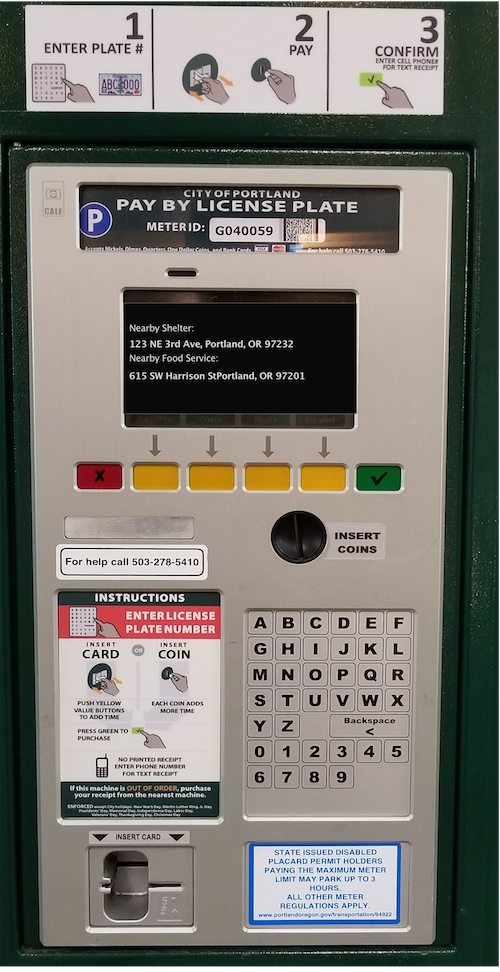
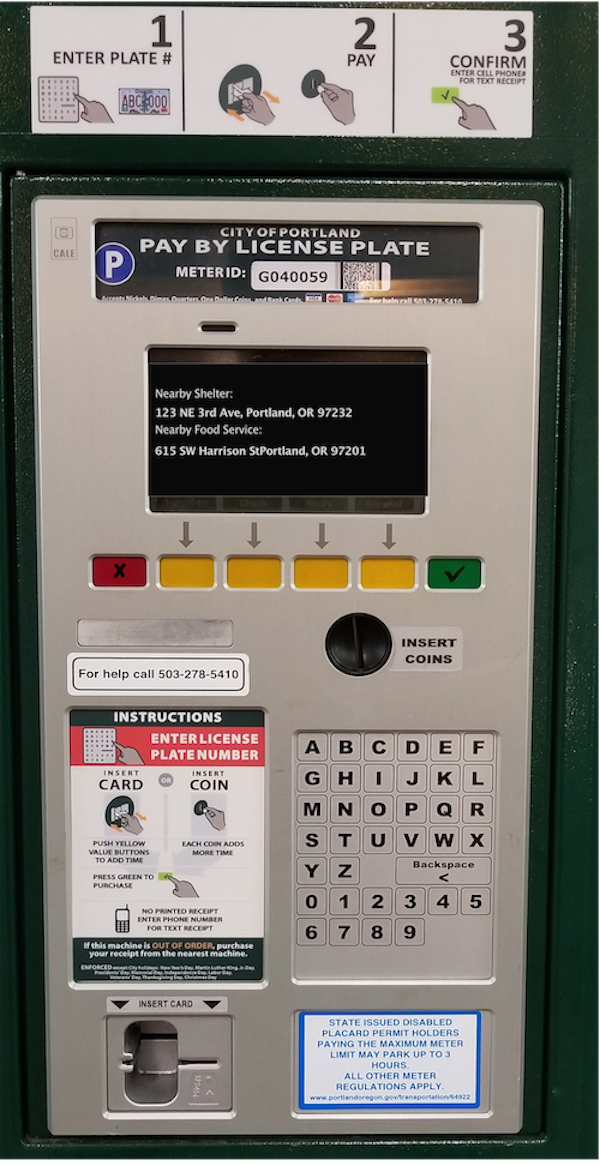
Minor Updates to Parking Meter html

diff --git a/parking_meter_2.html b/parking_meter_2.html
@@ -1,5 +1,5 @@
 <img src="HungerBytes/parking_meter_2.png" usemap="#maxmap">
 
 <map name="maxmap">
-    <area shape="rect" coords="360, 463, 402, 491" href="receipt.html">
+    <area shape="rect" coords="428, 555, 484, 588" href="receipt.html">
 </map>
